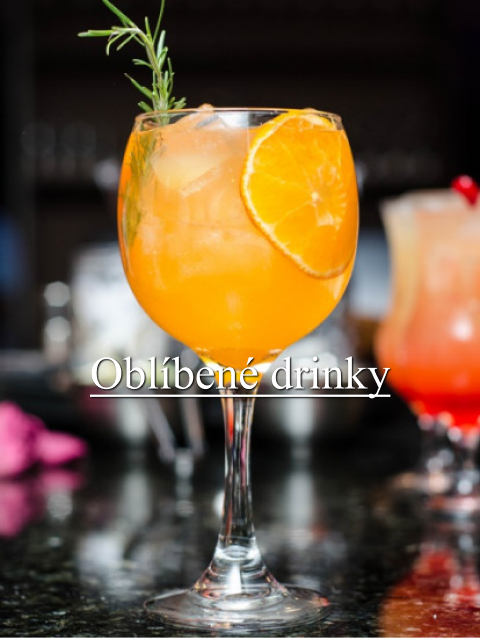
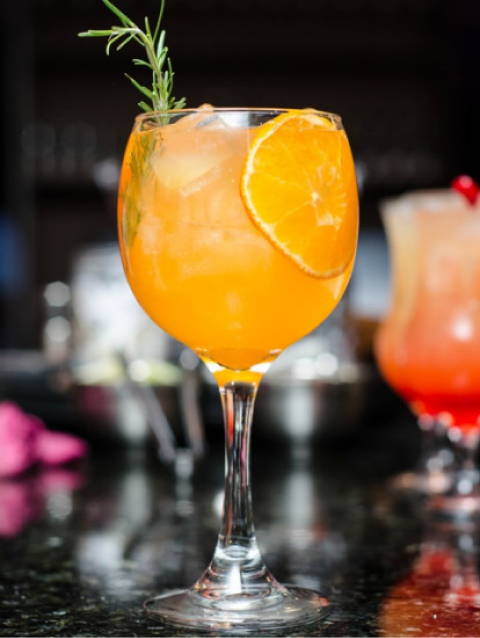
tailwind

Changed region(s): [[0.1875, 0.5361, 0.8125, 0.6254]]

diff --git a/index.html b/index.html
@@ -7,21 +7,21 @@
     <title>Document</title>
 </head>
 <body>
-  <header class="">
-    <div class=""></div>
-    <section class="">
-      <img src="" alt="" class="">
-      <h1 class="">DENNÍ MENU, PIZZA A JINÉ DOBROTY</h1>
-      <a href="#" class="">Více</a>
+  <header class="font-serif">
+    <div class="bg-[#2f3235] h-10 w-full"></div>
+    <section class="bg-[url('./image/header.png')] h-screen bg-no-repeat bg-cover flex justify-center items-center flex-col">
+      <h1 class="font-normal text-5xl m-10">DENNÍ MENU, PIZZA A JINÉ DOBROTY</h1>
+      <a href="#" class="bg-[#f44336] text-lg px-8 py-2">Více</a>
     </section>
   </header>
   
-  <main class="">
+  <main class="font-serif">
     <section class="">
-      <h2 class="">Restaurant La Strada Ostrava - Poruba</h2>
+      <h2 class="text-center m-10">Restaurant La Strada Ostrava - Poruba</h2>
 
-      <article class="">
-        <div class="">
+
+      <article class="flex justify-around m-10">
+        <div class="p-4">
           <h3 class="">VYHRAJTE VESPU</h3>
           <p class="">Velká soutěž o fantastickou Vespu
             Primavera 125cm3 ABS-4 takt a
@@ -29,7 +29,7 @@
             Do slosování budou zařazeny
             účtenky ...</p>
         </div>
-        <div class="">
+        <div class="p-4">
           <h3 class="">ČERSTVÉ SUROVINY</h3>
           <p class="">Pro výrobu všech pokrmů
             používáme zásadně čerstvé
@@ -37,7 +37,7 @@
             přímo ze zahraničí. Suroviny jako
             těstoviny, noky a další ...</p>
         </div>
-        <div class="">
+        <div class="p-4">
           <h3 class="">NAŠE MENU</h3>
           <p class="">Nabízíme široký výběr z italské
             kuchyně a obsáhlou nabídku alko a
@@ -45,7 +45,7 @@
             z tradičních receptur severní Itálie.
             Mimo ...</p>
         </div>
-        <div class="">
+        <div class="p-4">
           <h3 class="">TAKE AWAY</h3>
           <p class="">Nemáte čas navštívit naši
             restauraci? Zavolejte na tel. +420
@@ -56,31 +56,31 @@
       </article>
     </section>
 
-    <nav class="">
-        <a href="#" class="">Denní menu</a>
-        <a href="#" class="">Naše pizza</a>
-        <a href="#" class="">Oblíbené drinky</a>
-        <a href="#" class="">Jídelní lístek</a>
+    <nav class="w-full grid grid-cols-1 lg:grid-cols-4 *:h-96 *:w-full *:h-screen *:bg-no-repeat *:bg-cover *:flex *:justify-center *:items-center *:text-white *:underline">
+        <a href="#" class="bg-[url('./image/menu1.png')]">Denní menu</a>
+        <a href="#" class="bg-[url('./image/menu2.png')]">Naše pizza</a>
+        <a href="#" class="bg-[url('./image/menu3.png')]">Oblíbené drinky</a>
+        <a href="#" class="bg-[url('./image/menu4.png')]">Jídelní lístek</a>
     </nav>
 
-    <section class="">
-      <h3 class="">Recenze</h3>
-      <article class="">
-        <div class="">
+      <section class="bg-[#f2f2ec] p-10">
+      <h3 class="m-10 text-center">Recenze</h3>
+      <article class="flex">
+        <div class="bg-white p-4 m-3">
           <h4 class="">Lenka</h4>
           <p class="">Facebook: Vyzkoušeli jsme mnoho kvalitních restaurací, ale Vaši
             restauraci nepřekoná nic. Obsluha perfektní, jídlo výborné.
             Určitě se zase velmi brzo a rádi vrátíme.</p>
         </div>
 
-        <div class="">
+        <div class="bg-white p-4 m-3">
           <h4 class="">Tom</h4>
           <p class="">Google: Pokud hledáte italskou kuchyni v Ostravě - Porubě, už
             nemusíte. Pizza, pasta, risotto a další pochoutky vždy v
             prvotřídní kvalitě, obzvláště tiramisu.</p>
         </div>
 
-        <div class="">
+        <div class="bg-white p-4 m-3">
           <h4 class="">Karin</h4>
           <p class="">Facebook: Siamo stati da voi gia piu volte e il ristorante e
             sicuramente piu bello di prima e i camerieri molto gentili. Le
@@ -89,8 +89,8 @@
       </article>
     </section>
 
-    <section class="">
-      <div class="">
+    <section class="flex">
+      <div class="w-1/2">
         <h2 class="">Přijďte ochutnat pravou Itálii</h2>
         <h3 class="">Většina jídel vychází z tradičních receptur severní Itálie.</h3>
 
@@ -100,11 +100,8 @@
           <a href="" class="">více</a>
       </div>
 
-      <figure>
-        <img src="" alt="">
-        <figcaption>
-          Italské jídlo na talíři.
-        </figcaption>
+      <figure class="w-1/2">
+        <img src="./image/food.png" alt="">
       </figure>
     </section>
 
